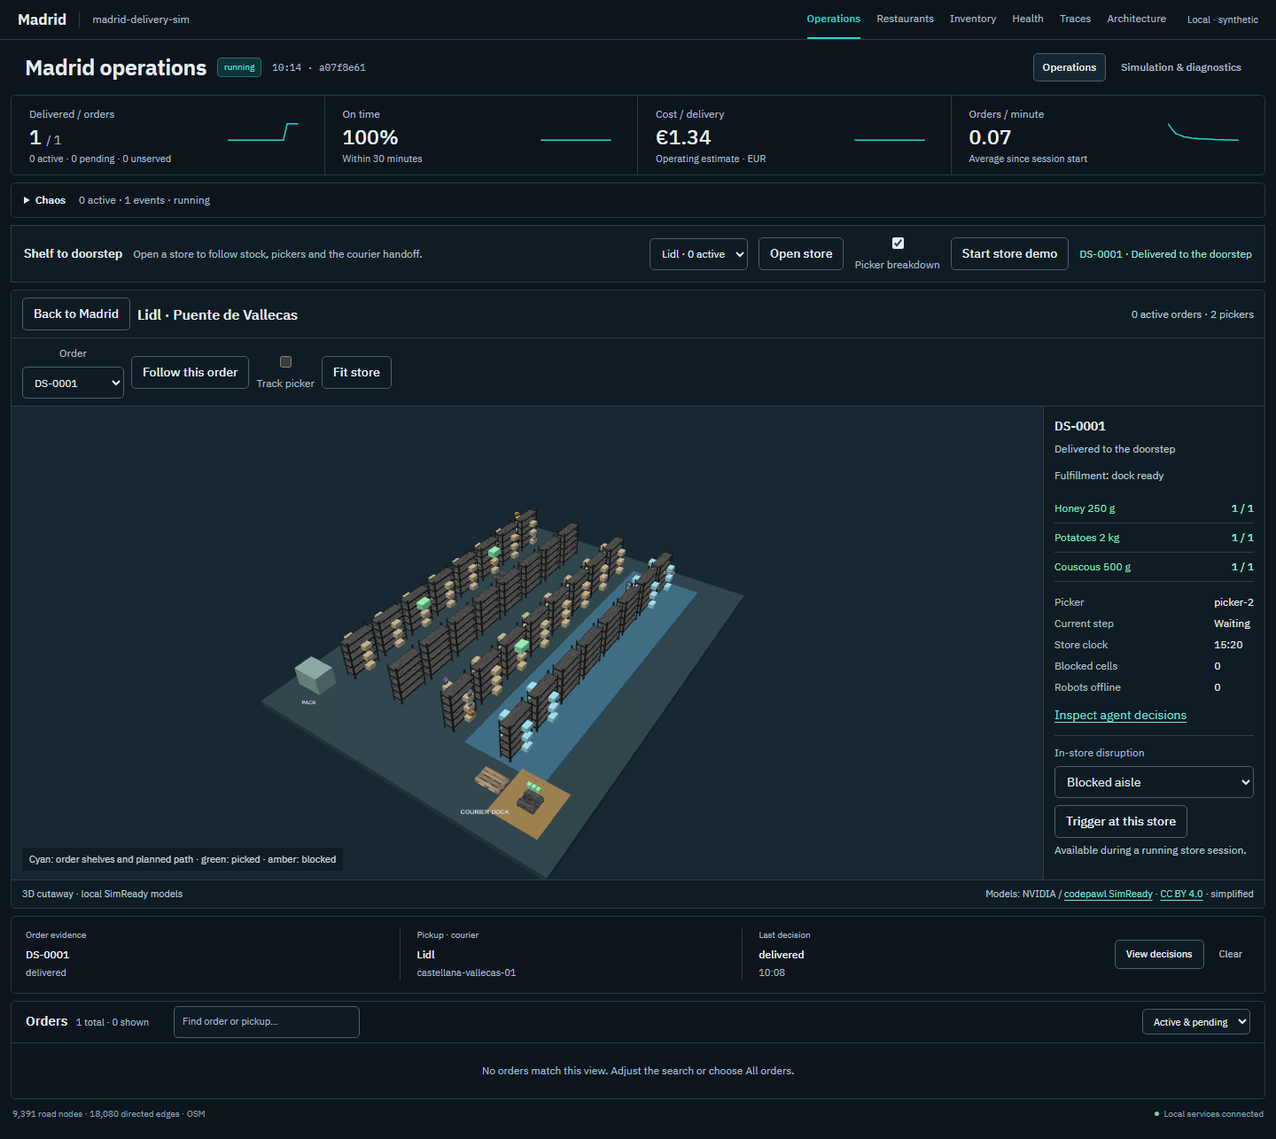
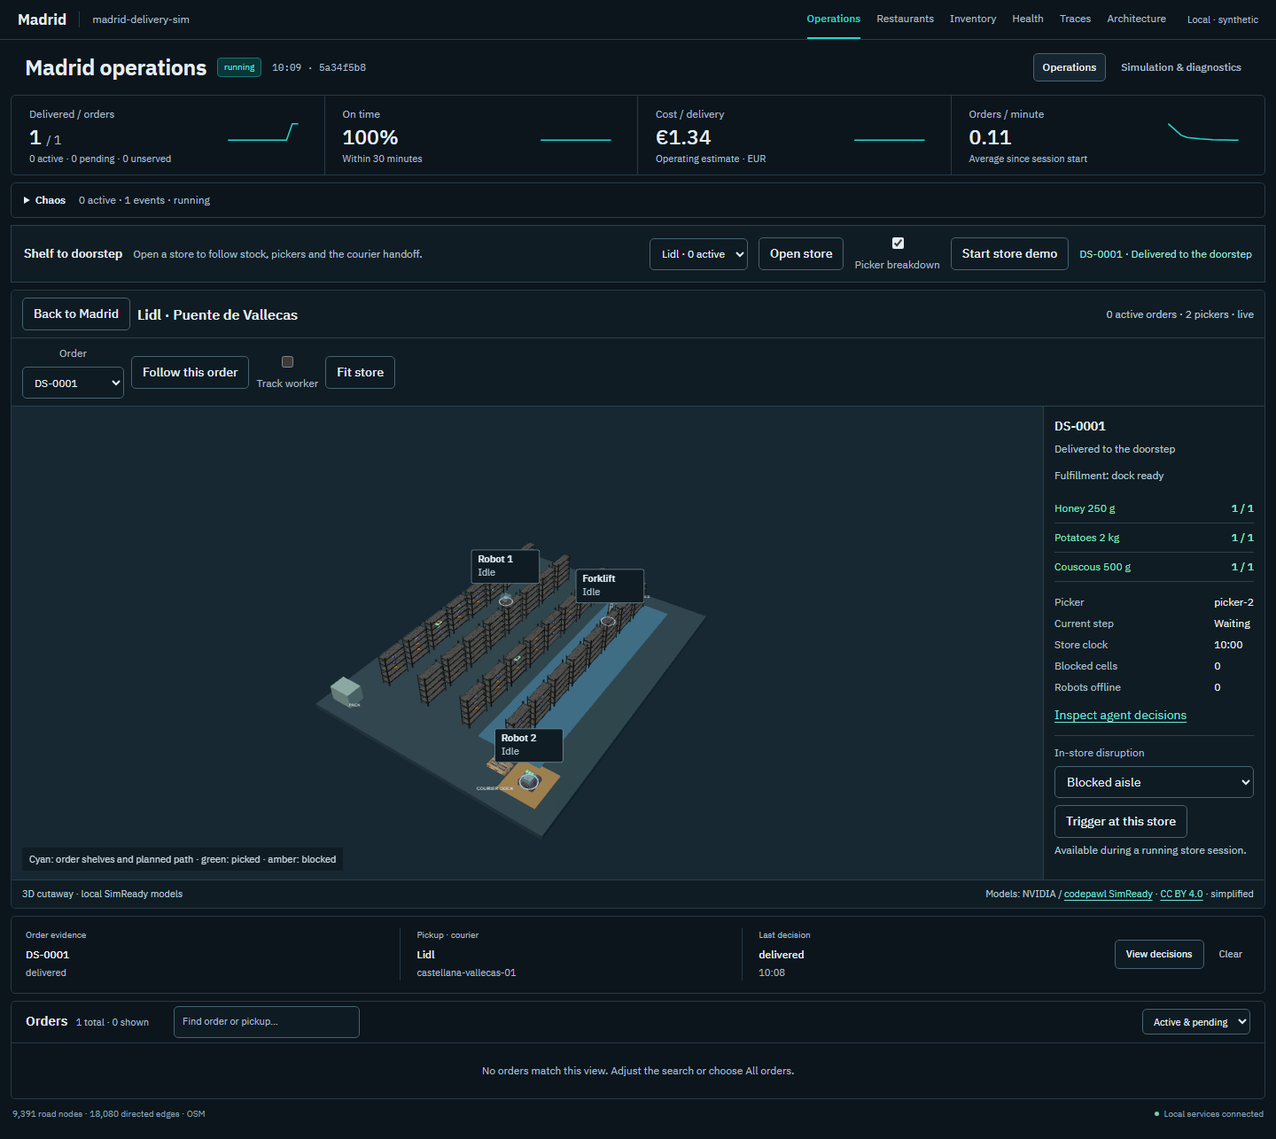
Refresh the recorded store journey and verification evidence

diff --git a/.impeccable/review/dark-store-documentation.md b/.impeccable/review/dark-store-documentation.md
@@ -1,16 +1,17 @@
 # Dark-store documentation receipt
 
-Date: 2026-11-02. Scope: ordinary Operate extension of the existing visual world.
-This delegated pass used the installed generated documenter definition at
-`reference/degraded/documenter.md` and the complete `reference/document.md` spec.
-Context loading failed, so existing project context was read directly.
+Date: 2026-11-02. Scope: ordinary Operate extension and the user's stock/movement
+correction in the existing visual world. This delegated pass follows the already
+read generated documenter definition at `reference/degraded/documenter.md` and
+`reference/document.md`. It did not rerun context loading.
 
 ## Outcome and boundary
 
-Updated `.impeccable/surfaces/dark-store.md` and created this receipt. No product
-code, PRODUCT.md, DESIGN.md, sidecar or other documents were changed by this pass.
-The shared system still describes the extension's identity. Surface choices were
-recorded without promoting them into global tokens or rules.
+Updated only `.impeccable/surfaces/dark-store.md` and this receipt. PRODUCT.md,
+DESIGN.md, the sidecar, code and other documents are unchanged by this pass.
+The shared system still describes the extension's identity. Supported stock,
+worker labels/rings/totes and responsive camera fit are local scene behaviors,
+not a new visual world or additional shared design tokens.
 
 Preserved system SHA-256 values:
 
@@ -21,69 +22,102 @@ Preserved system SHA-256 values:
 
 | Area | Incumbent | Finished extension and decision |
 | --- | --- | --- |
-| Palette | Blue graphite, pale ink, cyan action/selection, semantic outcomes | Same roles. Local literal shades and physical model materials remain surface details; no palette expansion. |
-| Typography | IBM Plex Sans/Mono, compact titles, no display tier | Store title 16px, headings 14px, working text 12px, annotations 11px. The 16px heading matches an existing CSS size; its role and raster scene labels stay local. |
-| Layout | Working interface near the top, dense evidence, responsive stacking | Compact launch bar, flexible cutaway plus 250px inspector, stacked at 850px. Uncapped inspector keeps disruptions in page flow. |
-| Depth/form | Flat ordinary panels, fine rules, restrained corners, map legibility shadows | Flat inspector and panels. Small store-pin shadow serves marker legibility; spatial depth belongs to the modeled store. |
-| State/evidence | Color with words, actual IDs, trace access, explicit unavailable evidence | Basket counts, picker ID, stage, decision link, render status and distinct 3D/floor-plan keys accompany physical state. |
-| Interaction | Visible focus, reduced motion, native controls | Labeled selectors, canvas keyboard controls, Escape return, focus restoration, lazy models and fallbacks. Environment selection reuses the Anatomy inspector. |
+| Palette | Blue graphite, pale ink, cyan action/selection, semantic outcomes | Same roles. Local shades, stock materials and state rings remain surface details; no palette expansion. |
+| Typography | IBM Plex Sans/Mono, compact titles, no display tier | Store title 16px, headings 14px, working text 12px, annotations/worker buttons 11px. The local heading role and raster location labels do not alter the shared ramp. |
+| Layout | Working interface near the top, dense evidence, responsive stacking | Compact launch bar, flexible stage plus 250px inspector, stacked at 850px. Normal-flow inspector keeps disruptions reachable. Fit store uses both projection axes and reapplies overview framing on resize. |
+| Depth/form | Flat ordinary panels, fine rules, restrained corners, marker legibility shadows | Inspector and panels stay flat. Scene depth, supported goods and worker totes depict simulated physical roles. |
+| State/evidence | Color with words, actual IDs, trace access, explicit unavailable evidence | Basket counts, actual assignment, task/Idle/Offline worker labels, state rings, trace link and separate 3D/floor-plan keys. Stock props represent stocked faces rather than inventory-unit counts. |
+| Interaction | Visible focus, reduced motion, native controls | Click or Enter on a worker button tracks that actual worker. Track worker reflects selection; Fit store exits camera tracking. Keyboard orbit, Escape return, lazy loading and fallbacks remain. |
 
 The One Accent Rule, Compact Title Rule and Flat Surface Rule remain shared.
-Camera behavior, material colors, local dimensions and heading size do not define
-a replacement visual world.
+Local camera behavior, physical materials, label dimensions and heading roles do
+not establish new system-wide rules. Architecture's Environment selector and
+Anatomy treatment are unchanged from the prior documented pass.
 
 ## Evidence checked
 
-Source: `web/store.css`, `web/store-view.js`, `web/store-3d.js`, store markup/asset
-references in `web/index.html`, hooks in `web/app.js`, and the environment selection
-in `web/agent-anatomy.js` and `web/agent-anatomy.css`. Context: `web/tokens.css`,
-PRODUCT.md, DESIGN.md, `.impeccable/design.json`, the surface brief and prior Anatomy
-finish receipt. No browser session or new runtime test was run by this pass.
+Re-read `web/store-3d.js`, `web/store-view.js`, `web/store.css` and
+`scripts/check_store_view.cjs`, plus current browser and recording receipts. The
+previous pass supplied incumbent context from PRODUCT.md, DESIGN.md, the sidecar,
+`web/tokens.css`, Operations hooks and Anatomy. No browser session or new runtime
+test was run by this documentation pass.
 
-All seven supplied final PNGs were opened and compared with the source. Sizes
-below describe full-page images, not the browser viewport height.
+Opened all five refreshed full-page store PNGs, captured from the top, and sampled
+journey frames `002.png`, `005.png`, `007.png` and `010.png`. They show changing
+worker positions/state, supported goods, picking/packing evidence and the return
+to Madrid at handoff. The two previously inspected Anatomy captures are unchanged.
+Sizes below describe image dimensions, not browser viewport height.
 
-| Capture under `.impeccable/review/` | Image size | Evidence |
+| Capture under `.impeccable/review/` | Image size | Current evidence |
 | --- | --- | --- |
-| `dark-store-desktop.png` | 1440 × 1286 | Cutaway and basket together; complete disruption action. |
-| `dark-store-mobile.png` | 390 × 2234 | Wrapped controls; stage above inspector; action/footer in flow. |
-| `dark-store-user-1916.png` | 1916 × 1374 | Wide stage, fixed-width inspector and inherited Operations shell. |
-| `dark-store-laptop.png` | 1280 × 1286 | Complete inspector and disruption action at reviewed laptop width. |
-| `dark-store-fallback.png` | 1280 × 1286 | Floor plan, explicit fallback status and corrected worker/unavailable key. |
-| `store-environment-desktop.png` | 1440 × 5209 | Dark store selected in the existing Architecture inspector. |
-| `store-environment-mobile.png` | 390 × 6496 | Environment field and facts in the established stacked inspector. |
+| `dark-store-desktop.png` | 1440 × 1286 | Supported stock, worker identity labels/rings and basket inspector. |
+| `dark-store-mobile.png` | 390 × 2234 | Whole-store overview including packing/dock; wrapped controls and normal-flow inspector. |
+| `dark-store-user-1916.png` | 1916 × 1374 | Preserved wide overview and fixed-width inspector. |
+| `dark-store-laptop.png` | 1280 × 1286 | Complete overview, worker labels and disruption action. |
+| `dark-store-fallback.png` | 1280 × 1286 | Floor plan, explicit fallback status and worker/unavailable key. |
+| `store-environment-desktop.png` | 1440 × 5209 | Unchanged Architecture environment inspector; inspected in the earlier pass. |
+| `store-environment-mobile.png` | 390 × 6496 | Unchanged stacked Environment field/facts; inspected in the earlier pass. |
 
-`artifacts/dark-store/browser-checks.json` records `passed: true`, lazy loading,
-keyboard, mobile, fallback and delivered checks true, and no errors. Run:
-`04cdaaf5-d7ef-444a-9134-63f7e5253099`. This is retained test evidence, not an
-independent rerun by the documenter.
+### Current browser receipt
 
-`artifacts/dark-store/recording.json` records delivered run
-`a07f8e61-ac4a-4246-9d55-42e50d56bd0a`, with reservation, picking, packing, dock,
-handoff and delivery frames. `docs/evidence/dark-store.json` explicitly limits
-its A2A integration evidence to deterministic local offline operation; it does
-not establish live-model quality.
+`artifacts/dark-store/browser-checks.json` records run
+`d91633a8-c693-45d8-9366-541145443dfe` with `passed: true` and no errors:
 
-The provided finish-review record says the full review found two material issues:
-clipped mobile/laptop disruption controls and an inaccurate fallback legend.
-Both were fixed in one batch and scored resolved by the same reviewer. The
-**ship** verdict applies to those two fixes. This pass does not expand it into a
-new full-surface audit.
+- Lazy loading, keyboard, mobile, fallback and delivered checks pass.
+- `workersMoving: true`: the test observes changing coordinates for a working
+  simulated worker and activates a worker button using Enter.
+- Shelf-support checks cover 120 faces with zero errors and a maximum gap of
+  approximately 0.002m, below the 0.01m test tolerance. The checks use model bounds
+  and deck intersections; this is geometric support evidence, not a physics test.
+- The measured render sample reports 52 draw calls and 351,031 triangles. This is
+  one sampled state, not a universal frame-rate or hardware-performance claim.
+- The mobile test asserts both projected overview bounds are at most 0.91 at
+  390px, alongside overflow and disruption-control checks. It also checks graphics
+  context loss, missing-model fallback, actual courier handoff and delivery.
+
+These are retained results from `scripts/check_store_view.cjs`, not a rerun by the
+documenter.
+
+### Current journey and review scope
+
+`artifacts/dark-store/recording.json` and `docs/media/store-journey.json` now identify
+run `5a34f5b8-2ff1-4197-a3f8-43bbd67f9096`, seed 42 with robot breakdown, delivered.
+The adjacent `docs/media/store-journey.gif` records the actual local browser
+journey. Its receipt reports 12 frames at 1000ms intervals with endpoint holds,
+1080 × 760 output, and a separate render sample of 55 draw calls/351,067 triangles.
+The recording includes picking, breakdown/reassignment, packing, dock waiting,
+courier handoff and doorstep delivery. It supersedes the old run references in
+this receipt; static final idle-worker captures alone do not establish movement.
+
+The supplied fresh full-review record names
+`impeccable_stock_motion_finish_reviewer`. That reviewer inspected the original
+user image, all five refreshed store captures and frames 002–010, finding the
+materials, worker identity/movement, order journey and incumbent system consistent.
+One material issue remained: mobile overview fit. After the correction, the same
+reviewer's fix-only verdict was **ship**: the complete store, packing area and
+dock fit within the 390px margins, wide layouts were preserved, and no remaining
+regression was reported. The final verdict verifies that one fix; it is not a
+second full review. Earlier disruption/legend corrections remain in the build,
+but their older verdict is not the current completion evidence.
+
+This is a local deterministic physical-operation simulation with representative
+assets and route interpolation. `docs/evidence/dark-store.json` limits its A2A
+integration results to offline operation. Neither the recording nor support
+checks prove live-model quality, real-world robot control or rigid-body accuracy.
 
 ## Scoped differences and unrepaired drift
 
-- Local literal shades, the 16px store heading and the pin shadow are surface
-  variations. Detector advisories are not converted into shared tokens. Existing
-  Anatomy 18px headings and the 16px mobile field also remain local.
-- The sidecar still says “Design System: Bakiano operations” while the root system
-  and project use madrid-delivery-sim.
-- `.impeccable/surfaces/web-flow-html.md` still targets retired `web/flow.html`.
-- PRODUCT.md still names the old `mds-ui` worktree and `feat/ui-redesign` branch.
-- The documenter found missing PNG origin metadata, outside its write boundary.
-  The implementation pass subsequently embedded actual browser-capture origins in
-  the changed review PNGs. No pixels changed; the README GIF also carries its
-  source in an embedded comment and adjacent recording receipt.
+- Local colors, worker label/ring treatment, the 16px store heading and pin shadow
+  remain surface variations. Existing Anatomy headings/mobile fields stay local.
+- The sidecar retains “Design System: Bakiano operations” rather than the current
+  madrid-delivery-sim project name.
+- `.impeccable/surfaces/web-flow-html.md` targets the retired `web/flow.html`.
+- PRODUCT.md names the older `mds-ui` worktree and `feat/ui-redesign` branch.
+- The implementation pass embedded actual browser-capture origins in all five
+  refreshed store PNGs using Impeccable embed-prompt, identifying recording run
+  5a34f5b8-2ff1-4197-a3f8-43bbd67f9096 and no generated pixels. No image pixels
+  changed. This documentation pass changed no image metadata. The GIF's adjacent
+  recording receipt identifies its actual local-browser source and asset credit.
 
-The three metadata drifts predate this extension and remain unchanged because
-repair was outside the authorized boundary. No defect or drift above is canonized
-as a system rule.
+The three pre-existing metadata drifts remain unchanged because their repair was
+outside the write boundary. No defect or drift is canonized as a shared rule.

diff --git a/.impeccable/surfaces/dark-store.md b/.impeccable/surfaces/dark-store.md
@@ -14,9 +14,11 @@ This is a local Operations extension, with an adjacent environment selector in
 the existing Architecture inspector.
 
 Success: follow a real simulated order from reservation to doorstep; inspect
-basket quantities, worker assignment, changed routes and recorded decisions;
-trigger store disruptions. Simulation evidence is local and synthetic. The A2A
-evidence does not establish live-model quality.
+basket quantities, worker assignment and movement, changed routes and recorded
+decisions; trigger store disruptions. Stock rests on visible rack decks and worker
+identity remains inspectable. Simulation evidence is local and synthetic; neither
+the A2A evidence nor the shelf-support check establishes live-model quality,
+real-world robotics performance or rigid-body physics accuracy.
 
 ## Direction contract
 
@@ -39,7 +41,7 @@ Shipping raster provenance remains a packaging requirement.
 - Enter through a map pin, Open store, a store order in the ledger, or the seeded
   Start store demo. The cutaway and inspector temporarily replace the map/roster
   workspace; Back to Madrid and Escape restore the city view.
-- Order selection, Follow this order, Track picker and Fit store control the view.
+- Order selection, Follow this order, Track worker and Fit store control the view.
   The inspector shows named products, picked/required quantities, fulfillment
   reason, picker ID, current step, store clock, blocked cells and offline robots,
   with a link to recorded agent decisions.
@@ -47,6 +49,16 @@ Shipping raster provenance remains a packaging requirement.
   Madrid and locates the order; delivered and cancelled stages end following.
   Static delivered captures do not prove the whole transition; the retained
   browser and recording receipts cover that sequence.
+- Each stocked shelf face has a representative produce or packaged-goods model
+  seated inside the actual rack bounds on a detected deck. Repeated racks, stock
+  and shelf markers share instanced rendering. The props represent stocked faces,
+  not a one-model-per-unit inventory count; basket quantities remain explicit.
+- Workers have visible totes where applicable, ground rings and Plex label
+  buttons. Labels expose the actual worker role/number and current task, Idle or
+  Offline state. Click or Enter tracks that worker; the Track worker checkbox
+  reflects tracking. Basket contents move with the assigned worker. Motion follows
+  time-stamped simulation routes, including recovery assignment, not a decorative
+  loop or physical telemetry.
 - Disruptions are blocked aisle, shelf out of stock, robot breakdown and late
   restock truck. The action is available during a running city session.
 - Three.js and local SimReady models load on entry. Missing individual models
@@ -54,7 +66,8 @@ Shipping raster provenance remains a packaging requirement.
   inspection remains available. Its legend identifies worker circles, red
   offline workers and amber unavailable items/areas separately from the 3D key.
 - The canvas supports arrow-key orbit and plus/minus zoom, with visible focus.
-  Reduced motion removes animated entry and interpolated scene movement. Render
+  Reduced motion removes animated entry and interpolated scene movement while
+  simulation state still updates. Render
   status, order progress and disruption feedback use status announcements.
 - Architecture's Environment selector reuses its labeled field and inspector.
   Dark store shows source-backed facts and a dashed treatment on the existing
@@ -66,12 +79,15 @@ Global controls and Plex UI typography remain incumbent. Store chrome uses
 closely related graphite literals (`#101c23`, `#172832`, `#29404e`) and local
 cyan/green/amber signals. These are surface values, not new shared tokens.
 Physical model materials distinguish the floor, cold zone, dock, racks and stock.
-Rasterized sans-serif scene annotations do not replace the UI font.
+Rasterized sans-serif location annotations do not replace the UI font. Worker
+labels are real 11px Plex buttons, with cyan working outlines, red offline state,
+neutral idle state and a selected background. Labels and rings express identity
+and state; they are local scene controls, not a new global component style.
 
 The store heading is 16px, inspector/launch headings 14px, working text 12px, and
 legend/footer annotations 11px. The 16px heading matches the existing CSS large-text
-size but is a local heading role, not an addition to the documented type ramp. The store pin uses
-a small legibility shadow (`0 3px 8px #0007`); ordinary panels remain flat.
+size but is a local heading role, not an addition to the documented type ramp.
+The store pin uses a small legibility shadow (`0 3px 8px #0007`); ordinary panels remain flat.
 
 The wide body pairs a flexible stage with a 250px inspector. Stage minimum height
 is `clamp(440px, 50vh, 680px)`. At 850px and below the inspector follows the stage,
@@ -79,11 +95,27 @@ whose minimum height becomes 360px. The inspector stays in normal page flow
 without a capped height, keeping the disruption action reachable. Headers,
 launch controls and footer wrap. These are surface dimensions, not shared tokens.
 
+Fit store frames the floor envelope, packing area and dock against both camera
+projection axes with a margin. Overview fit reapplies on resize, including at the
+reviewed 390px width. Manual orbit and worker tracking keep their chosen framing;
+Fit store exits tracking and clears the checkbox before restoring the overview.
+
 ## Finish evidence
 
-The independent full review identified clipped mobile/laptop disruption controls
-and an inaccurate floor-plan legend. One correction batch addressed both. The
-same reviewer's verdict was **ship** at the two-fix scope, not a second full audit.
-The documenter compared source and all seven final captures with the incumbent
-system and preserved DESIGN.md and `.impeccable/design.json`. Evidence and known
-metadata drift are in [the documentation receipt](../review/dark-store-documentation.md).
+After the user reported unsupported shelf items and asked to see moving agents,
+the physical stock placement and worker representation were corrected. A fresh
+independent full review compared the original user image, five refreshed store
+captures and journey frames 002–010. It found the materials, worker identity and
+movement, order journey and incumbent system consistent, with one material issue:
+the mobile overview fit. That issue was corrected; the same reviewer returned
+**ship** after verifying the complete store, packing area and dock within 390px
+margins and preserved wide layouts. The final verdict is one-fix verification,
+not another full-surface audit.
+
+The current browser receipt passes movement, 120 supported shelf faces with no
+support errors, lazy loading, keyboard, mobile, fallback, handoff and delivery.
+The current journey recording is run `5a34f5b8-2ff1-4197-a3f8-43bbd67f9096`.
+The documenter rechecked the changed source and five refreshed captures; Anatomy
+captures remain unchanged. DESIGN.md and `.impeccable/design.json` are preserved.
+See [the documentation receipt](../review/dark-store-documentation.md) for exact
+checks, review scope and known metadata drift.

diff --git a/docs/DARK-STORE.md b/docs/DARK-STORE.md
@@ -8,10 +8,13 @@ target; a slower machine will take longer rather than skip physical steps.
 
 The default view is an elevated cutaway. Cyan marks the selected order's shelf
 faces and the current planned route. Green items are already in the basket.
-Amber blocks show inaccessible cells. Use **Track picker** for a closer camera,
+Amber blocks show inaccessible cells. Use **Track worker** for a closer camera,
 **Fit store** for the whole layout, or **Back to Madrid** to leave. **Follow this
 order** returns to the city after physical courier collection; it ends at delivery
-or cancellation. Escape leaves the store. On a focused 3D view, arrows orbit and
+or cancellation. Select a robot or forklift label to follow that worker; the label
+shows its actual task and the ground marker follows its route. Completed shifts
+are labeled **shift complete**; start a store demo for live movement. Escape
+leaves the store. On a focused 3D view, arrows orbit and
 plus/minus zoom. All order facts and controls remain available without WebGL.
 
 ## Two environments, one order
@@ -26,6 +29,10 @@ zone, a packing station and a loading dock by default. The sixty supermarket
 catalogue products have two distinct pick faces each, including cold storage for
 dairy, protein and frozen items. Opening physical stock is 24 units per SKU;
 listing a product or expecting a truck never creates sellable stock.
+
+Stock models sit inside the actual rack bounds on its raycast deck surfaces;
+logical levels select usable decks rather than placing goods in mid-air. Shelf
+and product instances share draw calls.
 
 The renderer uses metre coordinates from this layout, not a separate visual
 layout. Pick routes use deterministic shortest aisle paths, avoid rack cells and
@@ -113,7 +120,8 @@ The pinned source revision, original links, modifications and hashes are in
 `web/vendor/simready/manifest.json`. The models total 920,992 bytes; models plus
 the local Three.js loader stay below 4 MB. They load only when opening a store.
 Failed models use boxes; failed WebGL uses the floor plan. Rendering is capped
-at 30 fps and pixel ratio 1.5, pauses in hidden views, and disposes its renderer
+at 30 fps and pixel ratio 1.5, skips unchanged frames, reduces resolution on slow
+software GPUs, pauses in hidden views, and disposes its renderer
 when closed. The original model geometry is visual evidence, not the simulation's
 physical collision or navigation authority.
 

diff --git a/README.md b/README.md
@@ -31,8 +31,8 @@ memory leaking across orders or roles. ADK proposes through granular tools;
 scoped SQL, durable queues and authenticated A2A boundaries enforce the contract.
 Routine policies can run without a model.
 
-Prior architecture release: **998 Python tests passing**, plus all **99 anatomy panels**
-checked in the browser ([verification receipt](docs/evidence/agent-anatomy.json));
+**1,030 Python tests passing**, plus all **99 anatomy panels**
+checked in the browser ([verification receipt](docs/evidence/dark-store.json));
 **pass^5 = 1.000 across 72 held-out cases** (360 attempts), with an all-pass
 bootstrap interval of [1, 1] in the [release receipt](docs/evidence/heldout-release.json).
 One [seeded Chaos shift](docs/evidence/a2a-chaos-local.json) delivered 71/71 orders
@@ -63,7 +63,8 @@ basket before taking over. **Follow this order** moves the view between those sc
 
 ![Actual seeded store order, from Madrid to shelves and back](docs/media/store-journey.gif)
 
-The elevated cutaway uses the actual layout, shelf stock and worker paths.
+The elevated cutaway seats stock on the actual shelf decks. Robot and forklift
+labels show their live tasks; select one to follow its route.
 Choose a store pin to inspect its load, highlight an order's shelves, or trigger
 a blocked aisle, stock shortage, robot breakdown or delayed truck. The inventory
 and fulfillment roles share the city's clock, durable events and A2A transport.
